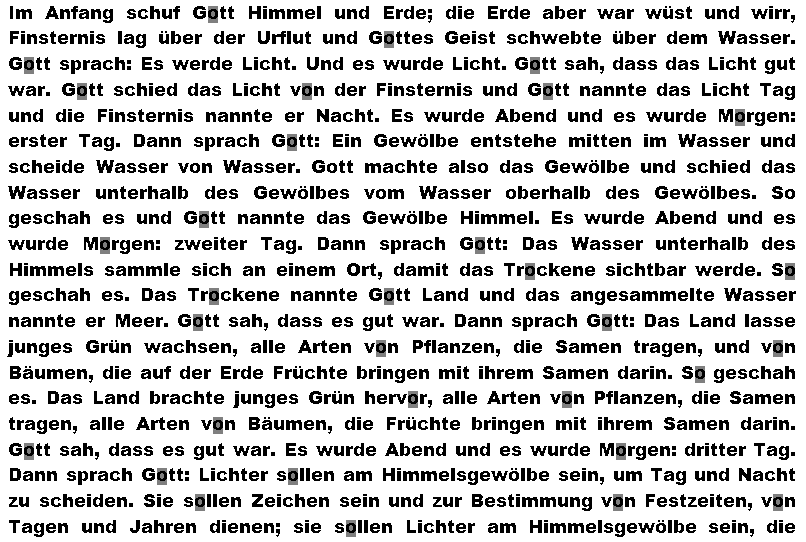
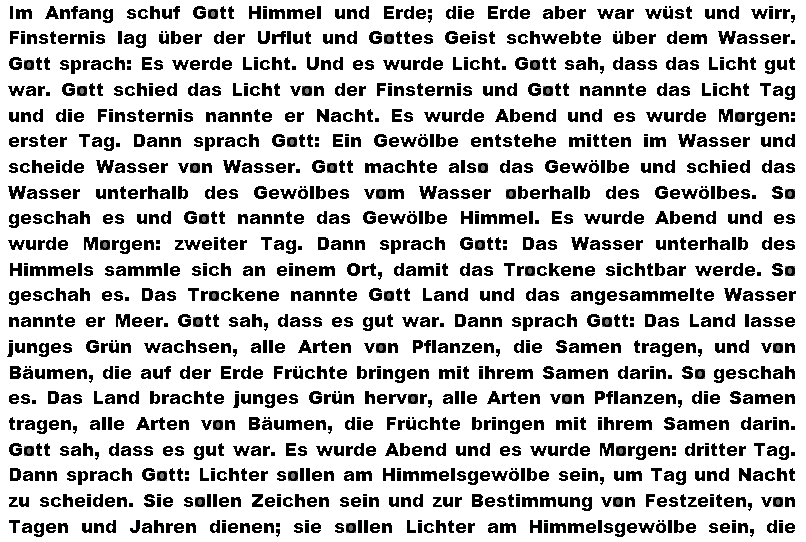
Changes by lucas-dev

diff --git a/Lesson05/OCRanalysis.py b/Lesson05/OCRanalysis.py
@@ -7,24 +7,27 @@ from SubImageRegion import SubImageRegion
 
 logging_enabled = False
 
+
 def log(*string: str):
     if logging_enabled:
         print(string)
+
 
 class OCRanalysis:
     def __init__(self):
         self.F_FGcount = 0
         self.F_MaxDistX = 1
         self.F_MaxDistY = 2
-        self.F_AvgDistanceCentroide= 3
-        self.F_MaxDistanceCentroide= 4
-        self.F_MinDistanceCentroide= 5
+        self.F_AvgDistanceCentroide = 3
+        self.F_MaxDistanceCentroide = 4
+        self.F_MinDistanceCentroide = 5
         self.F_Circularity = 6
         self.F_CentroideRelPosX = 7
         self.F_CentroideRelPosY = 8
         self.F_HoleCount = 9
 
-    def run(self, img_in_path: str, img_out_path: str, tgtCharRow: int, tgtCharCol: int, threshold: float, shrink_chars: bool):
+    def run(self, img_in_path: str, img_out_path: str, tgtCharRow: int, tgtCharCol: int, threshold: float,
+            shrink_chars: bool):
         img = cv2.imread(img_in_path, cv2.IMREAD_GRAYSCALE)
         if img is None:
             print(f"Fehler: Konnte Bild '{img_in_path}' nicht laden.")
@@ -150,7 +153,8 @@ def split_characters_vertically(row_image, BG_val, FG_val, orig_img, shrink_char
         # Skip too narrow characters (probably noise)
         min_char_width = 2
         if char_width >= min_char_width:
-            char_region = SubImageRegion(
+            # Create a temporary subimage with just the character width
+            width_limited_char_region = SubImageRegion(
                 row_image.startX + start_col,
                 row_image.startY,
                 char_width,
@@ -159,43 +163,68 @@ def split_characters_vertically(row_image, BG_val, FG_val, orig_img, shrink_char
             )
 
             if shrink_chars:
-                # shrink the character region to only include the actual character
-                shrinked_char_region = shrink_sub_image_region(char_region, FG_val)
-                return_char_arr.append(shrinked_char_region)
+                # Now limit the character vertically
+                char_start_y, char_height = limit_character_vertically(width_limited_char_region, BG_val)
+
+                # Create the final character region with proper horizontal bounds
+                limited_char_region = SubImageRegion(
+                    row_image.startX + start_col,
+                    row_image.startY + char_start_y,
+                    char_width,
+                    char_height,
+                    orig_img
+                )
+
+                return_char_arr.append(limited_char_region)
             else:
-                return_char_arr.append(char_region)
+                return_char_arr.append(width_limited_char_region)
 
     return return_char_arr
 
-def shrink_sub_image_region(region, FG_val):
-    min_x = region.width
-    min_y = region.height
-    max_x = 0
-    max_y = 0
 
-    for y in range(region.height):
-        for x in range(region.width):
-            if region.subImgArr[y][x] == FG_val:
-                if x < min_x:
-                    min_x = x
-                if y < min_y:
-                    min_y = y
-                if x > max_x:
-                    max_x = x
-                if y > max_y:
-                    max_y = y
+def limit_character_vertically(char_region, BG_val):
+    """
+    Find the top and bottom bounds of the character within the region.
+    Returns start_y and height of the actual character.
+    """
+    height = char_region.height
+    width = char_region.width
 
-    # nothing to shrink here...
-    if min_x > max_x or min_y > max_y:
-        return region
+    # Find the first non-empty row from top
+    start_y = 0
+    while start_y < height:
+        empty_row = True
+        for x in range(width):
+            if char_region.subImgArr[start_y][x] != BG_val:
+                empty_row = False
+                break
+        if not empty_row:
+            break
+        start_y += 1
 
-    # create new sub-image region with calculated shrinked dimensions
-    new_startX = region.startX + min_x
-    new_startY = region.startY + min_y
-    new_width = max_x - min_x + 1
-    new_height = max_y - min_y + 1
+    # Find the first non-empty row from bottom
+    end_y = height - 1
+    while end_y >= start_y:
+        empty_row = True
+        for x in range(width):
+            if char_region.subImgArr[end_y][x] != BG_val:
+                empty_row = False
+                break
+        if not empty_row:
+            break
+        end_y -= 1
 
-    return SubImageRegion(new_startX, new_startY, new_width, new_height, region.subImgArr)
+    # Calculate actual character height
+    char_height = end_y - start_y + 1
+
+    # Ensure minimum height
+    if char_height < 2:
+        char_height = 2
+        if start_y + char_height > height:
+            start_y = height - char_height
+
+    return start_y, char_height
+
 
 def split_characters(in_img, width, height, BG_val, FG_val, shrink_chars):
     return_char_matrix = []
@@ -264,6 +293,7 @@ def calc_feature_arr(region, FG_val, features_to_use):
 
     return feature_res_arr
 
+
 def is_matching_char(curr_feature_arr, ref_feature_arr, norm_feature_arr, threshold: float):
     norm_curr_arr = []
     norm_ref_arr = []
@@ -305,10 +335,12 @@ def is_matching_char(curr_feature_arr, ref_feature_arr, norm_feature_arr, thresh
 
     return False
 
+
 def main(img_in_path: str, img_out_path: str, row: int, col: int, threshold: float, shrink_chars: bool):
     print("OCR")
     myAnalysis = OCRanalysis()
     myAnalysis.run(img_in_path, img_out_path, row, col, threshold, shrink_chars)
+
 
 if __name__ == "__main__":
     parser = argparse.ArgumentParser(description="OCR Character Matcher")
@@ -316,8 +348,10 @@ if __name__ == "__main__":
     parser.add_argument("--image_in_path", type=str, default="altesTestament_ArialBlack.png", help="Input image path")
     parser.add_argument("--image_out_path", type=str, default="markedChars.png", help="Output image path")
     parser.add_argument("--row", "-r", type=int, default=1, help="Row of target character (0-based) -> default: 1")
-    parser.add_argument("--column", "-c", type=int, default=3, help="Column of target character (0-based) -> default: 3")
-    parser.add_argument("--threshold", "-t", type=float, default=0.999, help="Correlation coefficient limit (confidence) -> default: 0.999")
+    parser.add_argument("--column", "-c", type=int, default=3,
+                        help="Column of target character (0-based) -> default: 3")
+    parser.add_argument("--threshold", "-t", type=float, default=0.999,
+                        help="Correlation coefficient limit (confidence) -> default: 0.999")
     parser.add_argument("--logging", "-l", type=bool, default=False, help="Enable logging -> default: False")
     parser.add_argument("--shrink_chars", "-s", type=bool, default=False, help="Shrink characters -> default: False")
 

diff --git a/Lesson05/main.py b/Lesson05/main.py
@@ -29,6 +29,89 @@ characters = [
     (5, 31, "ö", 7, "marked_oe.png"),
 ]
 
+characters_wip = [
+    # SPECIAL CHARACTERS
+    (14, 6, ",", 16, "marked_comma.png"),
+    (3, 3, ".", 20, "marked_dot.png"),
+    (9, 11, ":", 8, "marked_colon.png"),
+    (0, 30, ";", 2, "marked_semicolon.png"),
+
+    # NUMBERS
+    # (0, 0, "!", 0, "marked_exclamation.png"),
+    # (0, 0, "0", 0, "marked_0.png"),
+    # (0, 0, "1", 0, "marked_1.png"),
+    # (0, 0, "2", 0, "marked_2.png"),
+    # (0, 0, "3", 0, "marked_3.png"),
+    # (0, 0, "4", 0, "marked_4.png"),
+    # (0, 0, "5", 0, "marked_5.png"),
+    # (0, 0, "6", 0, "marked_6.png"),
+    # (0, 0, "7", 0, "marked_7.png"),
+    # (0, 0, "8", 0, "marked_8.png"),
+    # (0, 0, "9", 0, "marked_9.png"),
+
+    # UPPER CASE LETTERS
+    (0, 2, "A", 7, "marked_A.png"),
+    (0, 0, "B", 3, "marked_B.png"),
+    # (0, 0, "C", 0, "marked_C.png"),
+    (0, 0, "D", 8, "marked_D.png"),
+    (0, 0, "E", 8, "marked_E.png"),
+    (0, 0, "F", 6, "marked_F.png"),
+    (0, 0, "G", 0, "marked_G.png"),
+    (0, 0, "H", 0, "marked_H.png"),
+    (0, 0, "I", 1, "marked_I.png"),
+    (0, 0, "J", 0, "marked_J.png"),
+    (0, 0, "K", 0, "marked_K.png"),
+    (0, 0, "L", 0, "marked_L.png"),
+    (0, 0, "M", 0, "marked_M.png"),
+    (0, 0, "N", 0, "marked_N.png"),
+    (0, 0, "O", 0, "marked_O.png"),
+    (0, 0, "P", 0, "marked_P.png"),
+    (0, 0, "Q", 0, "marked_Q.png"),
+    (0, 0, "R", 0, "marked_R.png"),
+    (0, 0, "S", 0, "marked_S.png"),
+    (0, 0, "T", 0, "marked_T.png"),
+    (0, 0, "U", 0, "marked_U.png"),
+    (0, 0, "V", 0, "marked_V.png"),
+    (7, 0, "W", 8, "marked_W.png"),
+    (0, 0, "X", 0, "marked_X.png"),
+    (0, 0, "Y", 0, "marked_Y.png"),
+    (0, 0, "Z", 0, "marked_Z.png"),
+    (0, 0, "Ä", 0, "marked_AE.png"),
+    (0, 0, "Ö", 0, "marked_OE.png"),
+    (0, 0, "Ü", 0, "marked_UE.png"),
+
+    # LOWER CASE LETTERS
+    (0, 0, "a", 0, "marked_a.png"),
+    (0, 0, "b", 0, "marked_b.png"),
+    (0, 0, "c", 0, "marked_c.png"),
+    (0, 0, "d", 0, "marked_d.png"),
+    (0, 0, "e", 0, "marked_e.png"),
+    (0, 0, "f", 0, "marked_f.png"),
+    (0, 0, "g", 0, "marked_g.png"),
+    (0, 0, "h", 0, "marked_h.png"),
+    (1, 1, "i", 57, "marked_i.png"),
+    (13, 0, "j", 2, "marked_j.png"),
+    (0, 0, "k", 0, "marked_k.png"),
+    (0, 0, "l", 0, "marked_l.png"),
+    (0, 1, "m", 37, "marked_m.png"),
+    (12, 0, "n", 115, "marked_n.png"),
+    (2, 1, "o", 38, "marked_o.png"),
+    (0, 0, "p", 0, "marked_p.png"),
+    (0, 0, "q", 0, "marked_q.png"),
+    (3, 2, "r", 81, "marked_r.png"),
+    (1, 3, "s", 102, "marked_s.png"),
+    (0, 0, "t", 0, "marked_t.png"),
+    (4, 0, "u", 39, "marked_u.png"),
+    (0, 0, "v", 0, "marked_v.png"),
+    (0, 0, "w", 0, "marked_w.png"),
+    (0, 0, "x", 0, "marked_x.png"),
+    (0, 0, "y", 0, "marked_y.png"),
+    (0, 0, "z", 0, "marked_z.png"),
+    (0, 0, "ä", 0, "marked_ae.png"),
+    (5, 31, "ö", 7, "marked_oe.png"),
+    (0, 0, "ü", 0, "marked_ue.png"),
+]
+
 os.makedirs(out_img_dir, exist_ok=True)
 
 myAnalysis = OCRanalysis()
@@ -37,7 +120,7 @@ print(f"OCR Analysis Results with threshold {threshold}:")
 for (row, col, letter, expected_count, out_img_path) in characters:
     full_out_img_path = os.path.join(out_img_dir, out_img_path)
 
-    actual_count = myAnalysis.run(img_path, full_out_img_path, row, col, threshold)
+    actual_count = myAnalysis.run(img_path, full_out_img_path, row, col, threshold, shrink_chars=True)
     print(f"Letter: \'{letter}\', Expected Count: {expected_count}, Actual Count: {actual_count}")
 
 print("Merging images...")

diff --git a/Lesson05/ImageFeatures.py b/Lesson05/ImageFeatures.py
@@ -112,7 +112,7 @@ class ImageFeatureF_MaxDistanceCentroide(ImageFeatureBase.ImageFeatureBase):
         return max_distance
 
 
-class ImageFeatureF_MaxDistanceCentroide(ImageFeatureBase.ImageFeatureBase):
+class ImageFeatureF_MinDistanceCentroide(ImageFeatureBase.ImageFeatureBase):
     def __init__(self):
         super().__init__()
         self.description = "Maximale Distanz der Pixel zu den Centroiden"

diff --git a/Lesson05/Readme.md b/Lesson05/Readme.md
@@ -1,1 +1,5 @@
 # OCR from scratch
+
+## Task 1
+
+## Task 2
